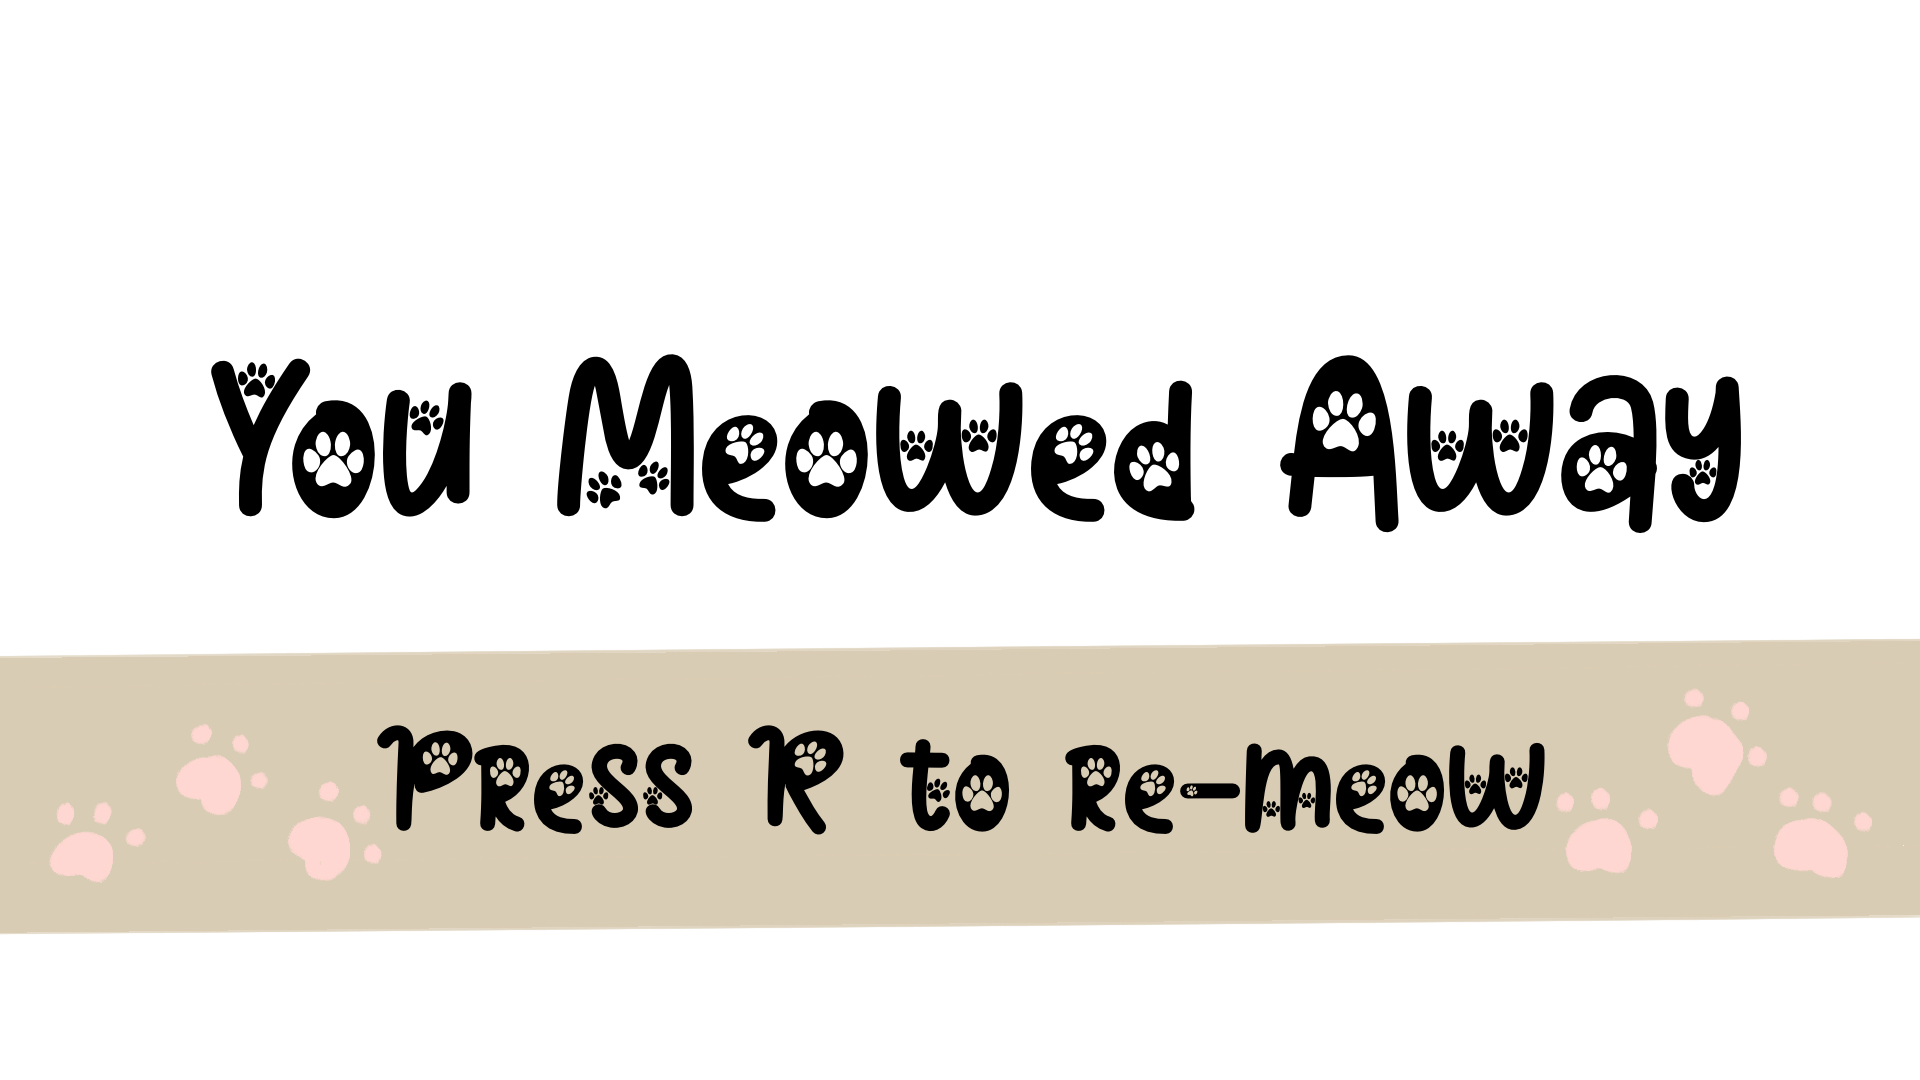
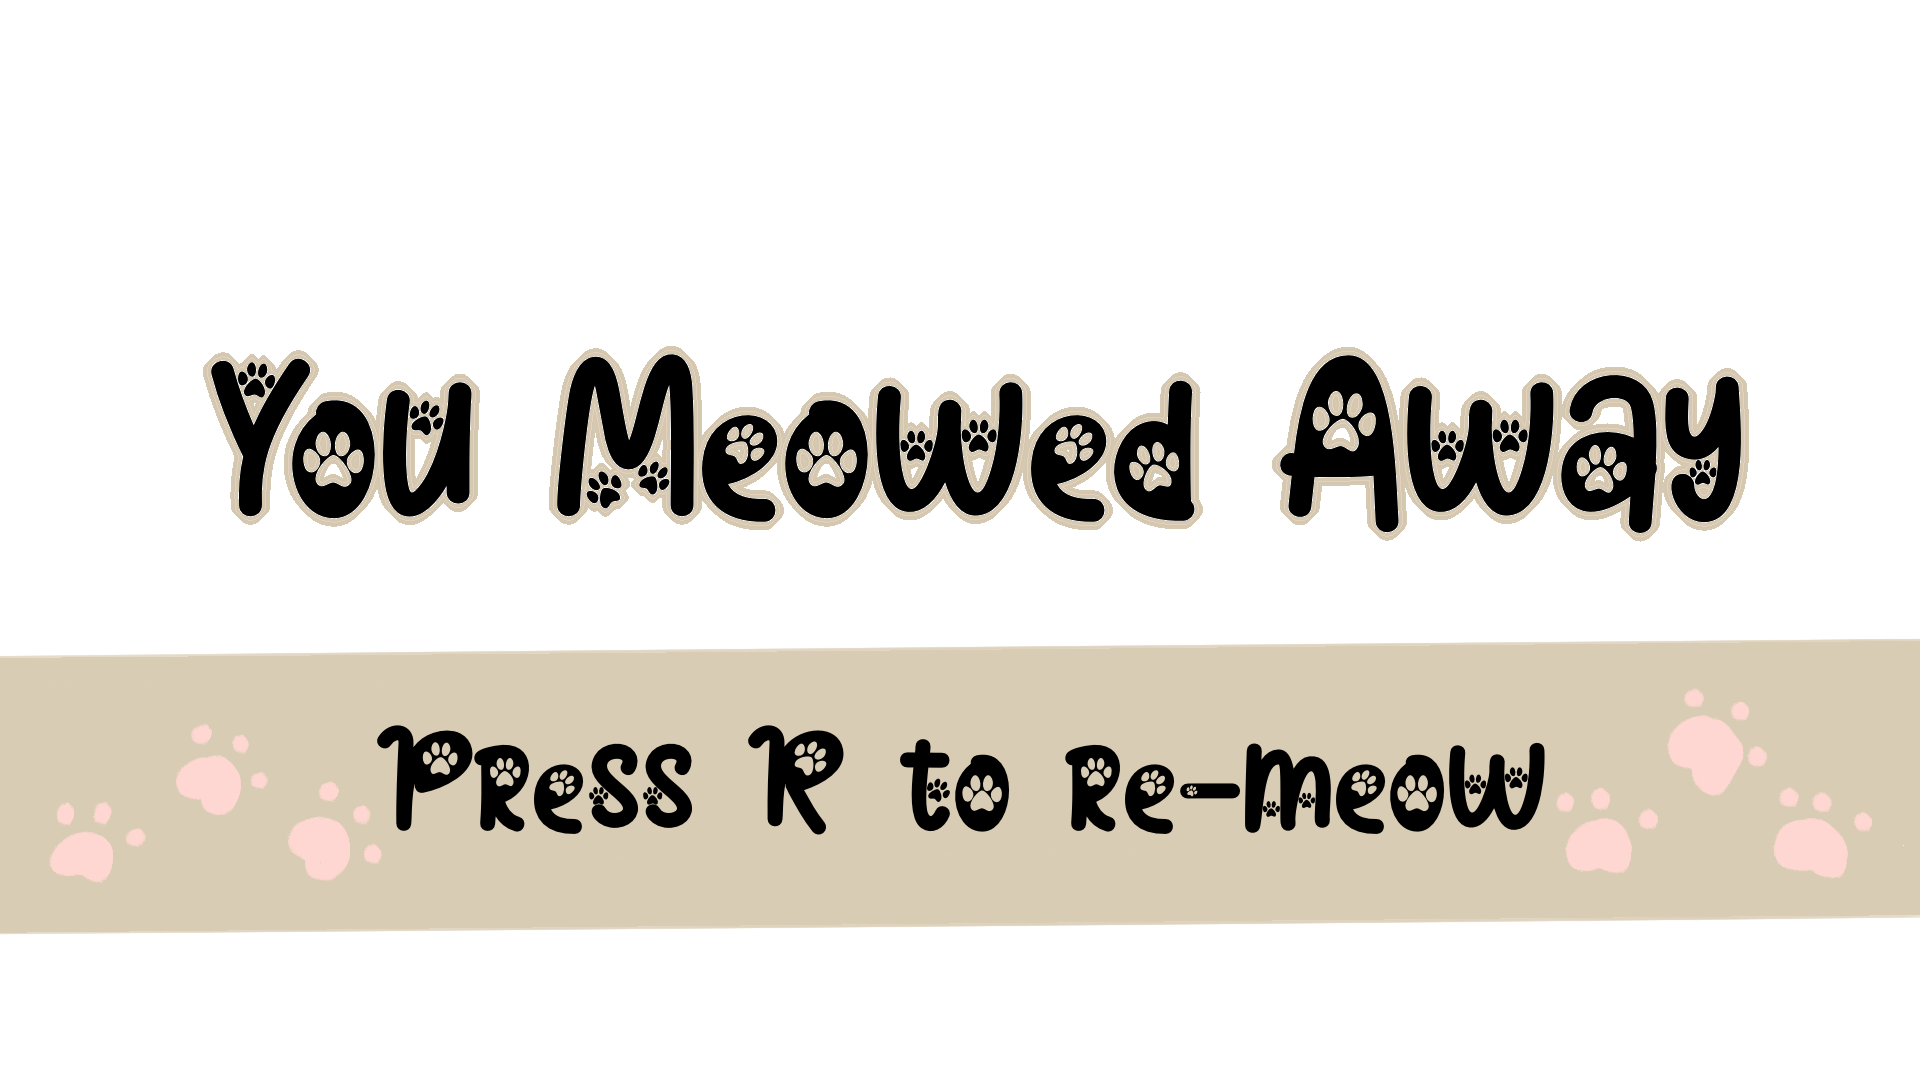
outline death screen, add death screen to 02

diff --git a/Assets/Scripts/Death.cs b/Assets/Scripts/Death.cs
@@ -18,6 +18,7 @@ public class DeathTrigger : MonoBehaviour
             // Activate the death screen
             audioManager.PlaySFX(audioManager.death);
             deathScreen.SetActive(true);
+            if (controls != null)
             controls.SetActive(false);
             // Optionally, you can stop the game here
             // Time.timeScale = 0;  // Freezes the game
